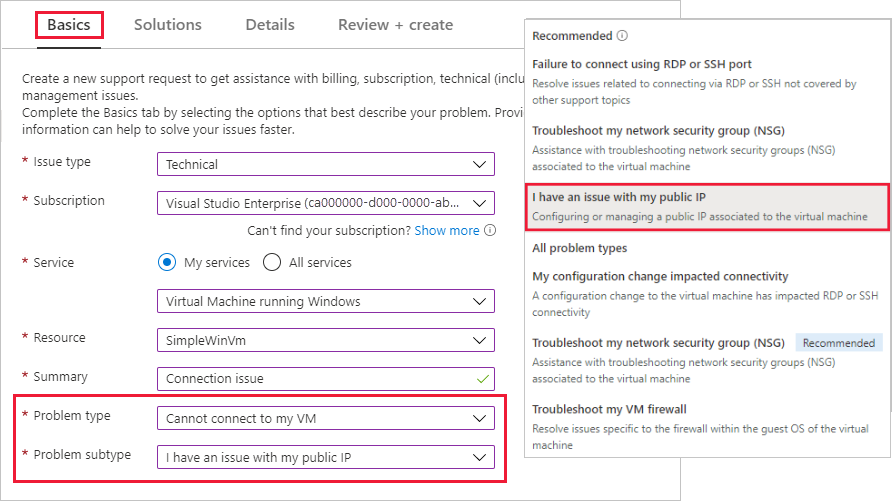
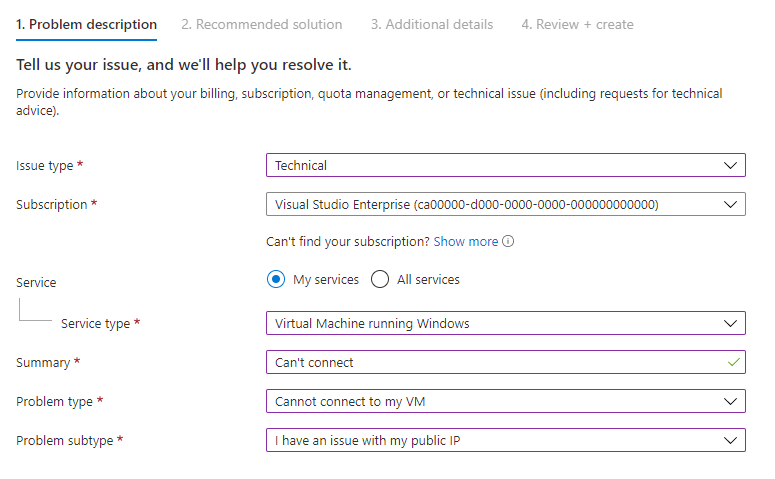
further updates

diff --git a/articles/azure-portal/supportability/how-to-create-azure-support-request.md b/articles/azure-portal/supportability/how-to-create-azure-support-request.md
@@ -46,7 +46,7 @@ To start a support request in the context of the resource you're currently worki
 
 1. From the resource menu, in the **Support + troubleshooting** section, select **New Support Request**.
 
-   ![In context](./media/how-to-create-azure-support-request/incontext2lower.png)
+   :::image type="content" source="media/how-to-create-azure-support-request/incontext2lower.png" alt-text="Screenshot of the New Support Request option in the resource pane.":::
 
 1. Follow the prompts to provide us with information about the problem you're having. When you start the support request process from a resource, some options are pre-selected for you.
 
@@ -54,38 +54,41 @@ To start a support request in the context of the resource you're currently worki
 
 We'll walk you through some steps to gather information about your problem and help you solve it. Each step is described in the following sections.
 
-### Basics
+### Problem description
 
-The first step of the support request process gathers basic information about your issue and your support plan.
+The first step of the support request process is to select an issue type. You'll then be prompted for more information, which can vary depending on what type of issue you selected. In most cases, you'll need to specify a subscription, briefly describe your issue, and select a problem type. If you select **Technical**, you'll need to specify the service that your issue relates to. Depending on the service, you'll see additional options for **Problem type** and **Problem subtype**.
 
-On the **Basics** tab of **New support request**, use the selectors to start to tell us about the problem. First, you'll identify some general categories for the issue type and choose the related subscription. Select the service, for example **Virtual Machine running Windows**. Select the resource, such as the name of your virtual machine. Describe the problem in your own words, then select **Problem type** and **Problem subtype** to get more specific.
+:::image type="content" source="media/how-to-create-azure-support-request/basics2lower.png" alt-text="Screenshot of the Problem description step of the support request process.":::
 
-![Basics blade](./media/how-to-create-azure-support-request/basics2lower.png)
+Once you've provided all of these details, select **Next**.
 
-### Solutions
+### Recommended solution
 
-After gathering basic information, we next show you solutions to try on your own. In some cases, we may even run a quick diagnostic. Solutions are written by Azure engineers and will solve most common problems.
+Based on the information you provided, we'll show you recommended solutions you can use to try and resolve the problem. In some cases, we may even run a quick diagnostic. Solutions are written by Azure engineers and will solve most common problems.
 
-### Details
+If you're still unable to resolve the issue, continue creating your support request by selecting **Next**.
+
+### Additional details
 
 Next, we collect additional details about the problem. Providing thorough and detailed information in this step helps us route your support request to the right engineer.
 
-1. If possible, tell us when the problem started and any steps to reproduce it. You can upload a file, such as a log file or output from diagnostics. For more information on file uploads, see [File upload guidelines](how-to-manage-azure-support-request.md#file-upload-guidelines).
+1. Complete the **problem details** so that we have more information about your issue. If possible, tell us when the problem started and any steps to reproduce it. You can upload a file, such as a log file or output from diagnostics. For more information on file uploads, see [File upload guidelines](how-to-manage-azure-support-request.md#file-upload-guidelines).
 
 1. In the **Share diagnostic information** section, select **Yes** or **No**. Selecting **Yes** allows Azure support to gather [diagnostic information](https://azure.microsoft.com/support/legal/support-diagnostic-information-collection/) from your Azure resources. If you prefer not to share this information, select **No**. In some cases, there will be additional options to choose from, such as whether to allow access to a virtual machine's memory.
 
-1. **Support method** section of **Details**, select the severity of impact. The maximum severity level depends on your [support plan](https://azure.microsoft.com/support/plans).
+1. In the **Support method** section, select the severity of impact. The maximum severity level depends on your [support plan](https://azure.microsoft.com/support/plans).
 
 1. Provide your preferred contact method, your availability, and your preferred support language.
 
 1. Next, complete the **Contact info** section so we know how to contact you.
 
+Select **Next** when you've completed all of the necessary information.
+
 ### Review + create
 
-Complete all required information on each tab, then select **Review + create**. Check the details that you'll send to support. Go back to any tab to make a change if needed. When you're satisfied the support request is complete, select **Create**.
+Before you create your request, review all of the details that you'll send to support. You can select **Previous** to return to any tab if you need to make changes. When you're satisfied the support request is complete, select **Create**.
 
 A support engineer will contact you using the method you indicated. For information about initial response times, see [Support scope and responsiveness](https://azure.microsoft.com/support/plans/response/).
-
 
 ## Next steps
 
